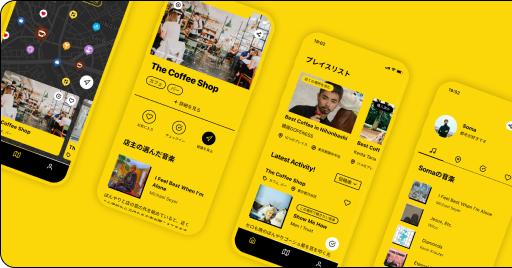
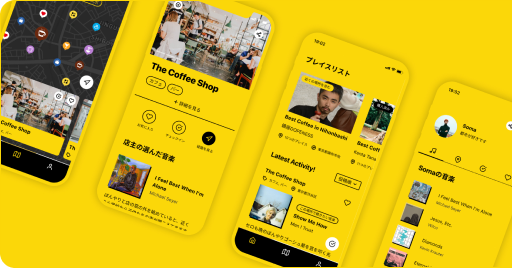
fix placy app img width

Changed region(s): [[0.0, 0.9552, 1.0, 1.0], [0.0, 0.0, 1.0, 0.0597]]

diff --git a/src/styles/app.module.scss b/src/styles/app.module.scss
@@ -67,7 +67,8 @@
         margin: 0;
     }
     .placy-img {
-        border-radius: 1rem;
+        width: 100%;
+        border-radius: 1rem 1rem 0 0;
     }
     .download-info {
         padding: 1rem;
@@ -127,6 +128,7 @@
             display: flex;
             flex-direction: row;
             .placy-img {
+                border-radius: 1rem 0 0 1rem;
                 width: 32rem;
             }
             .download-info {
